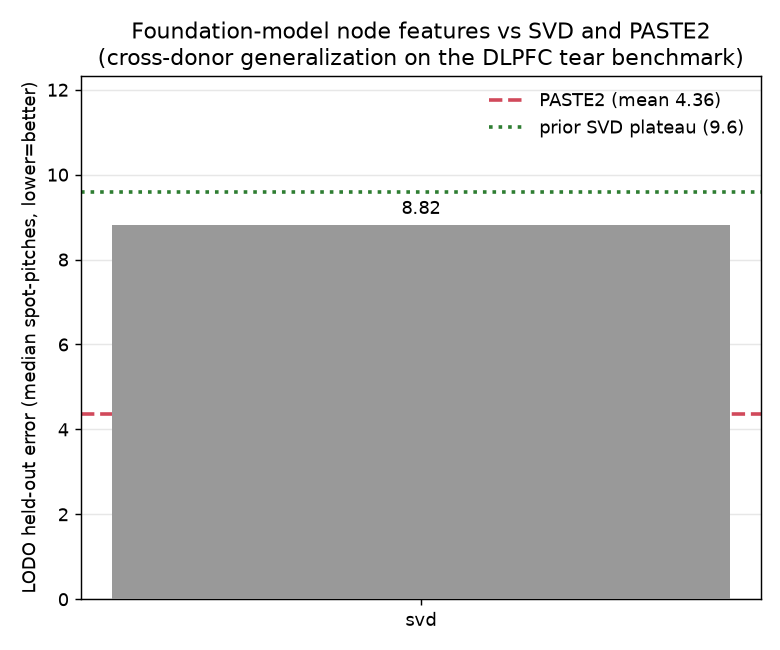
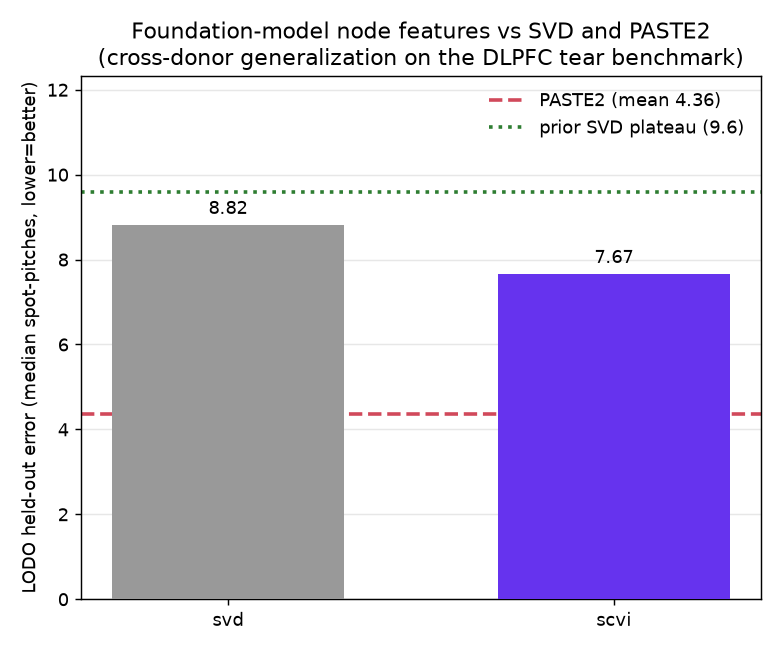
foundation-features: transductive ablation result - featurizer is NOT the bottleneck
Featurizer (SVD/scVI) fit on the held-out donor's cells too; aligner still trains on
2 donors. Held-out LODO mean (spot-pitches):
  svd  8.26 (inductive) -> 8.82 (transductive)
  scvi 7.39 (inductive) -> 7.67 (transductive)
Both unchanged-to-slightly-worse; 0/6 folds beat PASTE2 (4.36). Even giving the
featurizer the target donor's full expression distribution does not close the gap.
=> The cross-donor bottleneck is the ALIGNER generalizing its deformation prior to an
unseen donor's geometry, not the node-feature transfer. Route OOD to PASTE2.

Deliverables: research/results/foundation_features_transductive.{csv,png,log},
research/FINDINGS_foundation_features_transductive.md

Claude-Session: https://claude.ai/code/session_01CiYD5z1jputYH581SNFS1k

Changed region(s): [[0.4308, 0.3077, 0.9538, 0.9846], [0.2769, 0.9231, 0.3077, 0.9846], [0.2462, 0.3077, 0.3077, 0.3385]]

diff --git a/research/FINDINGS_foundation_features_transductive.md b/research/FINDINGS_foundation_features_transductive.md
@@ -1,18 +1,19 @@
 # Foundation-model features vs Sutura SVD - cross-donor generalization
 
-_Generated 2026-07-10T21:01:37Z on branch `foundation-features`._
+_Generated 2026-07-10T22:11:12Z on branch `foundation-features`._
 
 **Question.** Sutura's per-fold TruncatedSVD node features plateau at ~9.6 spot-pitches held-out-donor error (PASTE2 ~3.5). Does swapping in a pretrained/self-supervised foundation-model embedding - with the alignment architecture, tear benchmark, LODO protocol, and training recipe (augmentation + weight decay + early stopping) all held fixed - move held-out error toward or below PASTE2?
 
 
-**Headline.** Best embedding = `svd` at 8.82 pitches held-out (PASTE2 4.36, prior SVD 9.6). It **narrows but does NOT reach PASTE2** (moves +0.78 vs the SVD plateau; +4.46 vs PASTE2).
+**Headline.** Best embedding = `scvi` at 7.67 pitches held-out (PASTE2 4.36, prior SVD 9.6). It **narrows but does NOT reach PASTE2** (moves +1.93 vs the SVD plateau; +3.31 vs PASTE2).
 
 
 ## Ranked held-out error (mean over LODO folds, lower is better)
 
 | rank | feature | held-out (pitch) | PASTE2 | vs PASTE2 | vs SVD plateau | folds |
 |---|---|---|---|---|---|---|
-| 1 | `svd` | 8.82 | 4.36 | +4.46 | -0.78 | 3 |
+| 1 | `scvi` | 7.67 | 4.36 | +3.31 | -1.93 | 3 |
+| 2 | `svd` | 8.82 | 4.36 | +4.46 | -0.78 | 3 |
 
 Reference lines: prior SVD plateau 9.6, PASTE2 mean 4.36 pitches.
 
@@ -24,7 +25,10 @@ Reference lines: prior SVD plateau 9.6, PASTE2 mean 4.36 pitches.
 | `svd` | Br5292 | 8.783 | 3.085 | 5.28 | False | 50 | 1201.5 | ok |
 | `svd` | Br5595 | 7.905 | 3.136 | 4.35 | False | 50 | 1224.9 | ok |
 | `svd` | Br8100 | 9.784 | 3.312 | 3.46 | False | 50 | 1282.0 | ok |
+| `scvi` | Br5292 | 6.767 | 2.827 | 5.28 | False | 50 | 1314.3 | ok |
+| `scvi` | Br5595 | 6.689 | 2.88 | 4.35 | False | 50 | 1341.4 | ok |
+| `scvi` | Br8100 | 9.551 | 2.635 | 3.46 | False | 50 | 1513.0 | ok |
 
 ## Interpretation
 
-No embedding tested meaningfully beat the SVD plateau. The cross-donor gap does NOT appear to be fixable by swapping node features alone - consistent with the atlas-diversity result that the bottleneck is donor count / the alignment prior, not the expression featurizer.
+`scvi` narrows the cross-donor gap materially vs the SVD plateau (7.67 vs 9.6) but still trails PASTE2 - the embedding is a better prior, yet not sufficient on its own.
